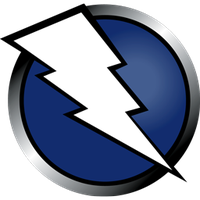
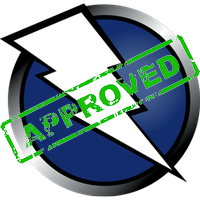
improved overall structure
- moved FAQs to vertical nav
- added "approved" stamp to ZAP logo
- optimized wording on several slides
- exchanged some images

Changed region(s): [[0.0, 0.18, 1.0, 0.84]]

diff --git a/index.html b/index.html
@@ -55,7 +55,7 @@
 					</p>
 					<hr>
 					<p>
-						<small><small>Press <code>Space</code> or swipe on your touchscreen to view this introduction! You can also use the navigation controls in the lower right corner.</small></small>
+						<small><small>Press <code>Space</code> or <code>Right</code> (or swipe left on your touchscreen) to view this introduction! You can also use the navigation controls in the lower right corner.</small></small>
 					</p>
 				</section>
 
@@ -153,63 +153,98 @@
 				</section>
 
 				<section>
-					<h2>What if I crash the server?</h2>
-					<p>
-						The application is reset on every startup
-					</p>
-					<img src="assets/help-153094_640.png" height="300" style="background: none; border:none; box-shadow:none;"/>
-					<p>
-						<small>Warning: This includes the challenge tracking and Score Board progress!</small>
-					</p>
-				</section>
 
-				<section>
-					<h2>Can I use my Pentesting toys?</h2>
-					<p>
-						Yes, definitely! Use whatever tools you like the most!
-					</p>
-					<img src="assets/Zed%20Attack%20Proxy.png" height="300" style="background: none; border:none; box-shadow:none;"/>
-					<p>
-						<small>Proxies like <a href="https://code.google.com/p/zaproxy/">ZAP</a> or <a href="http://portswigger.net/Burp/">Burp</a> can be useful, but most automated scanners won't help much. Btw. I'd <a href="https://gitter.im/bkimminich/juice-shop">love to know</a> what challenges your tools did (not) help you with!</small>
-					</p>
-				</section>
+					<section>
+						<h2>FAQ</h2>
+						<p>
+							If FAQ &amp; README don't help, <a href="https://gitter.im/bkimminich/juice-shop">ask in the chat</a> or <a href="https://github.com/bkimminich/juice-shop/issues">open an issue</a>
+						</p>
+						<ul>
+							<li><a href="#/9/1">Can I use my Pentesting toys?</a></li>
+							<li><a href="#/9/2">Can I do a white box pentest?</a></li>
+							<li><a href="#/9/3">Can I look at the server log?</a></li>
+							<li><a href="#/9/4">Installation does not work!</a></li>
+							<li><a href="#/9/5">What if I crash the server?</a></li>
+							<li><a href="#/9/6">I'm stuck with a challenge!</a></li>
+							<li><a href="#/9/7">I found another vulnerability!</a></li>
+						</ul>
+						<hr>
+						<p>
+							<small><small>Use the links above or navigate <code>Down</code> (or swipe up on your touchscreen) to visit all FAQ items in sequence.</small></small>
+						</p>
+					</section>
 
-				<section>
-					<h2>Can I do a white box pentest?</h2>
-					<p>
-						No! The code would spoiler all challenge solutions!
-					</p>
-					<img src="assets/intellij.png" height="300" style="background: none; border:none; box-shadow:none;"/>
-				</section>
+					<section>
+						<h2>Can I use my Pentesting toys?</h2>
+						<p>
+							Yes, definitely! Use whatever tools you like the most!
+						</p>
+						<img src="assets/Zed%20Attack%20Proxy.png" height="300" style="background: none; border:none; box-shadow:none;"/>
+						<p>
+							<small>Proxies like <a href="https://code.google.com/p/zaproxy/">ZAP</a> or <a href="http://portswigger.net/Burp/">Burp</a> can be useful, but most automated scanners won't help much.</small>
+						</p>
+					</section>
 
-				<section>
-					<h2>Can I look at the server log?</h2>
-					<p>
-						No! The console would reveal several challenge solutions!
-					</p>
-					<img src="assets/console.png" height="300" style="background: none; border:none; box-shadow:none;"/>
-				</section>
+					<section>
+						<h2>Can I do a white box pentest?</h2>
+						<p>
+							No! The code would spoiler all challenge solutions!
+						</p>
+						<img src="assets/intellij.png" height="300" style="background: none; border:none; box-shadow:none;"/>
+					</section>
 
-				<section>
-					<h2>It does not work!</h2>
-					<p>
-						Please carefully follow the instructions in the <a href="https://github.com/bkimminich/juice-shop/blob/master/README.md">README.md</a>
-					</p>
-					<img src="assets/rtfm.jpg" height="300" style="background: none; border:none; box-shadow:none;"/>
-					<p>
-						<small>If neither <a href="https://github.com/bkimminich/juice-shop/blob/master/README.md#setup">Setup</a> nor <a href="https://github.com/bkimminich/juice-shop/blob/master/README.md#troubleshooting">Troubleshooting</a> help solving your problem, please contact me via <a href="https://gitter.im/bkimminich/juice-shop">Gitter chat</a>.</small>
-					</p>
-				</section>
+					<section>
+						<h2>Can I look at the server log?</h2>
+						<p>
+							No! The console would reveal several challenge solutions!
+						</p>
+						<img src="assets/console.png" height="300" style="background: none; border:none; box-shadow:none;"/>
+					</section>
 
-				<section>
-					<h2>I'm stuck with a challenge!</h2>
-					<p>
-						Feel free to ask for <em>hints</em> in <a href="https://gitter.im/bkimminich/juice-shop">the official Gitter chat</a>
-					</p>
-					<img src="assets/Gitter.png" height="300" style="background: none; border:none; box-shadow:none;"/>
-					<p>
-						<small>Please do not ask for <em>solutions</em>. You can find executable solutions for all challenges in the <a href="https://github.com/bkimminich/juice-shop/tree/master/test/e2e">end-to-end testsuite</a>. You can also <a href="https://www.youtube.com/watch?v=_xXcBKLJhTE">watch the running e2e-suite on Youtube</a>.</small>
-					</p>
+					<section>
+						<h2>Installation does not work!</h2>
+						<p>
+							Please carefully follow the instructions in the <a href="https://github.com/bkimminich/juice-shop/blob/master/README.md">README</a>
+						</p>
+						<img src="assets/rtfm.jpg" height="300" style="background: none; border:none; box-shadow:none;"/>
+						<p>
+							<small>If <a href="https://github.com/bkimminich/juice-shop/blob/master/README.md#setup">Setup</a> &amp; <a href="https://github.com/bkimminich/juice-shop/blob/master/README.md#troubleshooting">Troubleshooting</a> docs don't help, you should <a href="https://gitter.im/bkimminich/juice-shop">seek help in the chat</a> or <a href="https://github.com/bkimminich/juice-shop/issues">open an issue</a>.</small>
+						</p>
+					</section>
+
+					<section>
+						<h2>What if I crash the server?</h2>
+						<p>
+							The application is cleanly reset on every startup
+						</p>
+						<img src="assets/help-153094_640.png" height="300" style="background: none; border:none; box-shadow:none;"/>
+						<p>
+							<small>Warning: This includes the challenge tracking and Score Board progress!</small>
+						</p>
+					</section>
+
+					<section>
+						<h2>I'm stuck with a challenge!</h2>
+						<p>
+							Feel free to ask for <em>hints</em> in <a href="https://gitter.im/bkimminich/juice-shop">the official chat</a>
+						</p>
+						<img src="assets/challenge_open.svg" height="300" style="background: none; border:none; box-shadow:none;"/>
+						<p>
+							<small>Please do not ask for <em>solutions</em>. You can find executable solutions for all challenges in the <a href="https://github.com/bkimminich/juice-shop/tree/master/test/e2e">end-to-end testsuite</a>. You can also <a href="https://www.youtube.com/watch?v=_xXcBKLJhTE">watch the running e2e-suite on Youtube</a>.</small>
+						</p>
+					</section>
+
+					<section>
+						<h2>I found another vulnerability!</h2>
+						<p>
+							Please <a href="https://github.com/bkimminich/juice-shop/issues">report untracked vulnerabilities</a> by opening an issue
+						</p>
+						<img src="assets/challenge_missing.svg" height="300" style="background: none; border:none; box-shadow:none;"/>
+						<p>
+							<small>Of course you can also contribute directly by <a href="https://github.com/bkimminich/juice-shop/pulls">opening a pull request</a>. Just don't break any tests.</small>
+						</p>
+					</section>
+
 				</section>
 
 				<section>
